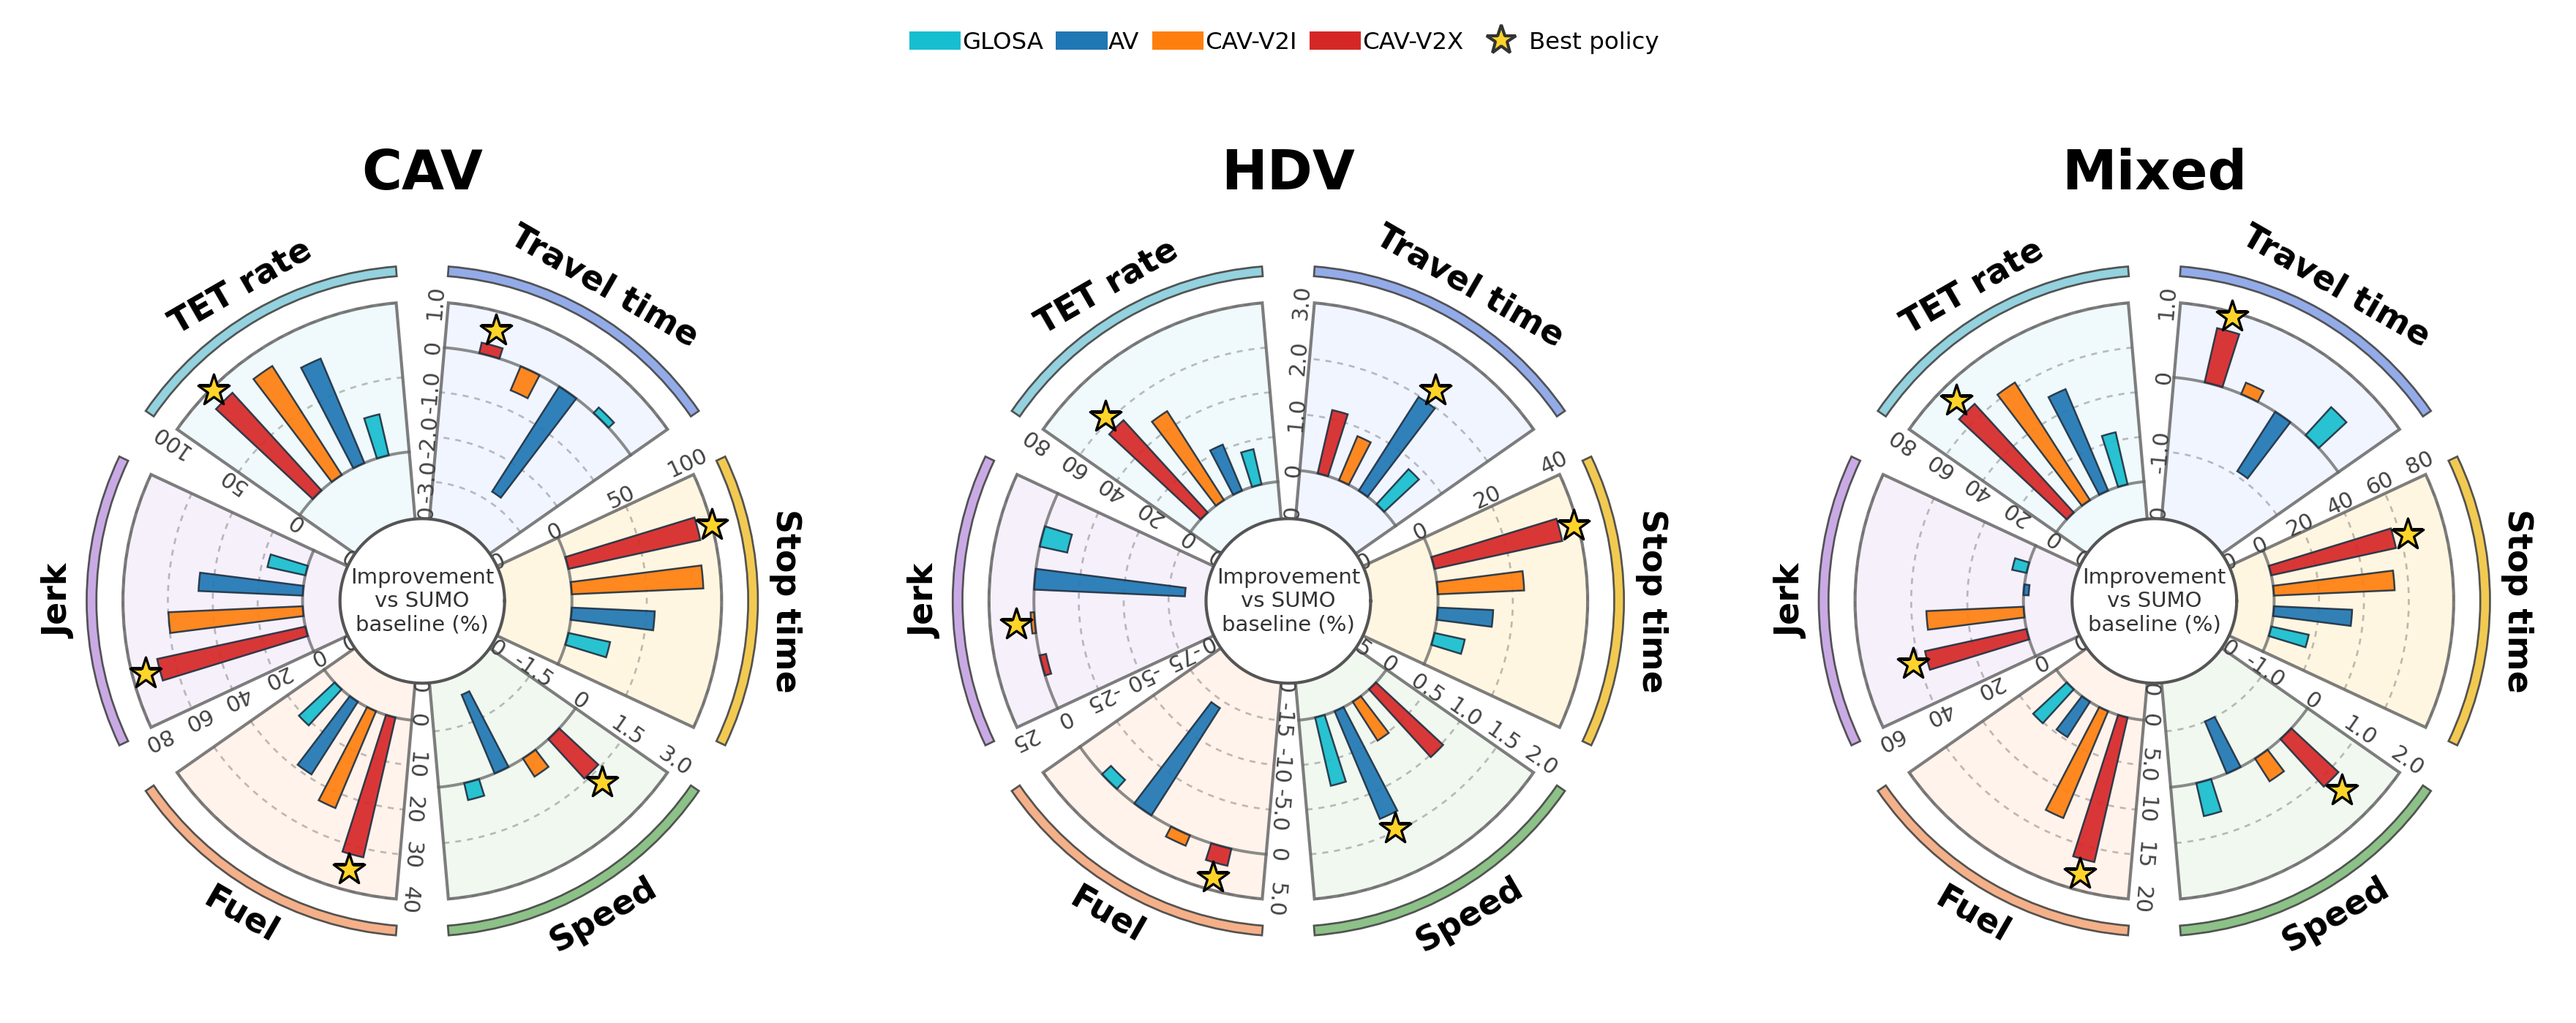
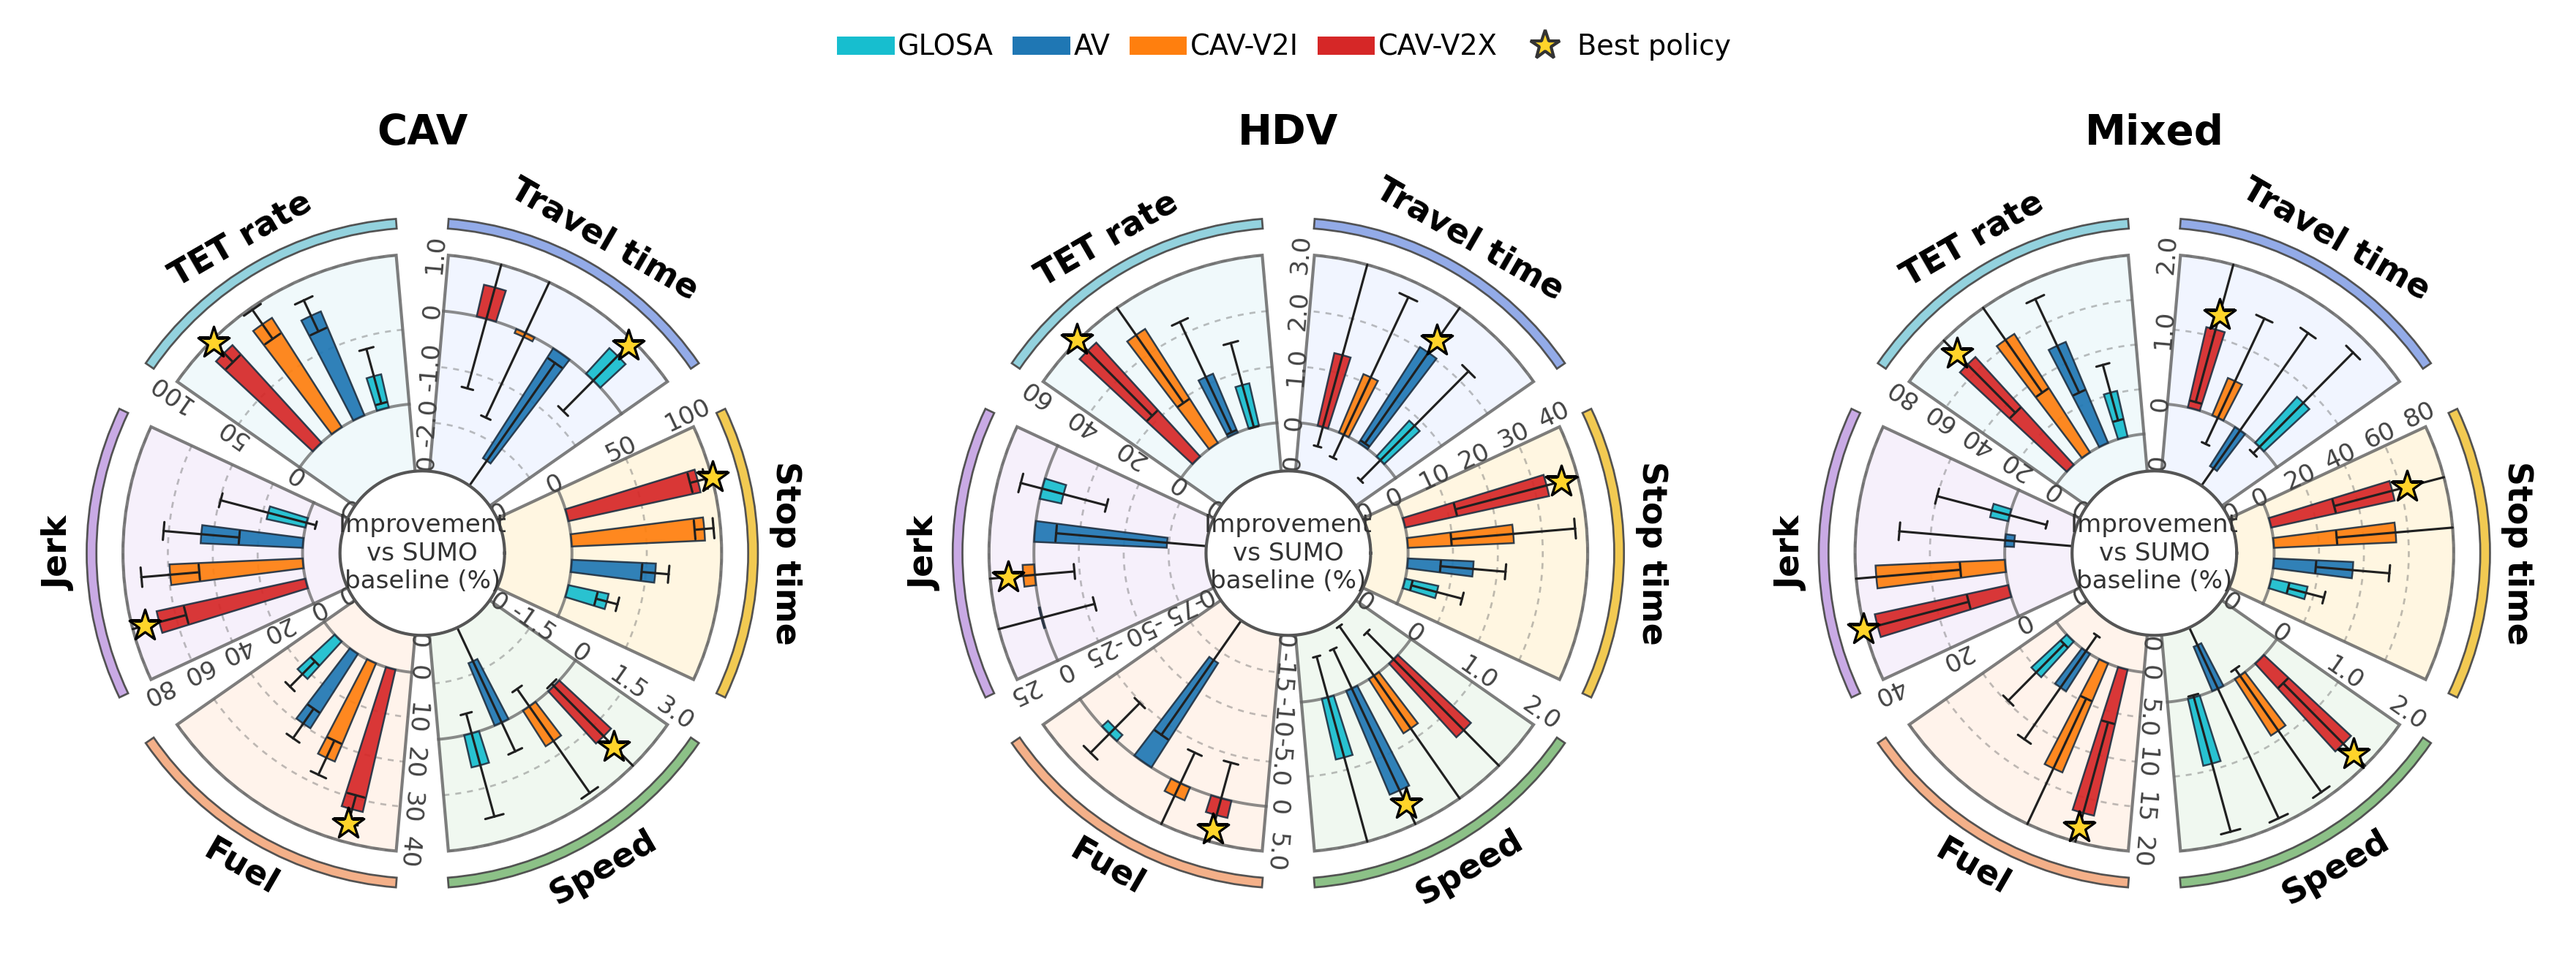
Update figures with latest evaluation results

diff --git a/README.md b/README.md
@@ -2,7 +2,7 @@
 
 This repository contains the reproducible code for SUMO-based connected and automated vehicle (CAV) eco-driving experiments in mixed traffic. It includes the reinforcement-learning agents, SUMO environments, training and evaluation entry points, and scenario configuration files.
 
-The repository is intentionally code-focused and does not include manuscript source files, raw evaluation outputs, FCD traces, or intermediate checkpoints. It does include the final checkpoints and episode-level training CSV files used for the paper experiments, together with a small set of representative figures.
+The repository is intentionally code-focused and does not include manuscript source files, raw evaluation outputs, FCD traces, or intermediate checkpoints. It includes the final checkpoints and episode-level training CSV files used for the paper experiments, together with representative result figures.
 
 ## Contents
 
@@ -33,7 +33,13 @@ The main comparison considers three learned control settings:
 - `CAV-V2I`: local perception plus signal timing information.
 - `CAV-V2X`: local perception, signal timing, and neighboring-CAV communication.
 
-Across 50 matched evaluation scenarios, the `CAV-V2X` policy gives the most balanced improvement among the learned policies. Averaged over the tested CAV penetration rates, its mixed-traffic performance improves relative to the SUMO baseline by `0.74%` in travel time, `56.83%` in stop time, `1.15%` in speed, `16.52%` in fuel consumption, `37.01%` in jerk, and `65.50%` in TET rate.
+Across five penetration rates and 100 matched evaluation runs per policy, the `CAV-V2X` policy gives the most balanced improvement among the learned policies. Averaged after run-level matching with the SUMO baseline, its mixed-traffic performance improves by `1.10%` in travel time, `56.21%` in stop time, `1.59%` in speed, `16.69%` in fuel consumption, `36.50%` in jerk, and `64.99%` in TET rate.
+
+Algorithm training comparison:
+
+![Algorithm training reward](figures/algorithm_training_reward.png)
+
+![Algorithm training metrics](figures/algorithm_training_metrics.png)
 
 Training reward comparison:
 
@@ -55,9 +61,21 @@ Penetration sensitivity:
 
 ![Penetration sensitivity](figures/penetration_sensitivity.png)
 
+Hybrid-action branch ablation:
+
+![Hybrid-action ablation](figures/hybrid_action_ablation.png)
+
+Available V2V-context sensitivity:
+
+![Communication capacity sensitivity](figures/communication_capacity_heatmap.png)
+
 The real-parameter Sycamore/Central scenario is used to test adaptation from a pretrained model. Pretraining improves early convergence and stabilizes several performance metrics compared with training from scratch.
 
 ![Sycamore generalization training](figures/sycamore_generalization_training.png)
+
+Sycamore evaluation savings:
+
+![Sycamore evaluation savings](figures/sycamore_evaluation_savings.png)
 
 Pretrained-policy trajectories under different penetration rates:
 
@@ -161,7 +179,7 @@ The released experiments are:
 | `sycamore_scratch_s1` | Sycamore scenario trained from scratch |
 | `sycamore_pretrained_s1` | Sycamore scenario initialized from the pretrained CAV-V2X policy |
 
-Experiments that alter only execution-time information or action availability reuse `cav_control/models/final.pt`. This includes the longitudinal/lane-changing branch ablation, penetration-rate evaluation, and the `K=0,1,2,4,6,8` V2V-token sensitivity study. See [`artifacts/README.md`](artifacts/README.md) for file hashes and experiment mapping.
+The penetration-rate and V2V-context sensitivity evaluations reuse `cav_control/models/final.pt`. The separately trained longitudinal-only and lane-changing-only checkpoints used for the action-branch ablation were unavailable in the local release source and are therefore not included; only their result figure is released. See [`artifacts/README.md`](artifacts/README.md) for file hashes, experiment mapping, and this limitation.
 
 ## Evaluation
 
@@ -245,7 +263,7 @@ python evaluate.py checkpoint=<path/to/final.pt> \
 
 ## Large Files
 
-Only the eight curated `final.pt` checkpoints and their `train.csv` files are tracked. Intermediate checkpoints, runtime `logs/`, raw evaluation results, FCD XML files, videos, and temporary figures remain ignored. The complete curated artifact set is approximately 16 MB and does not require Git LFS.
+Eight curated `final.pt` checkpoints, their `train.csv` files, and representative paper result figures are tracked. Intermediate checkpoints, runtime `logs/`, raw evaluation results, FCD XML files, videos, and temporary figures remain ignored. The tracked model files are small enough that Git LFS is not required.
 
 ## License
 

diff --git a/artifacts/README.md b/artifacts/README.md
@@ -15,7 +15,7 @@ This directory contains the final policy checkpoints and episode-level training 
 | `sycamore_scratch_s1` | Hybrid SAC trained from scratch | Data-informed scenario transfer comparison |
 | `sycamore_pretrained_s1` | Hybrid SAC initialized from `cav_control` | Data-informed scenario transfer comparison |
 
-The action-branch ablation and the V2V-token sensitivity experiment do not have separate trained checkpoints. They evaluate the unchanged `cav_control/models/final.pt` policy while restricting available actions or masking context tokens at execution time.
+The penetration-rate and V2V-context sensitivity experiments evaluate the unchanged `cav_control/models/final.pt` policy while changing the evaluation scenario or masking context tokens. The separately trained longitudinal-only and lane-changing-only checkpoints used for the action-branch ablation were not available in the local release source. Those two policies cannot currently be re-evaluated bit-for-bit from the released checkpoints.
 
 ## File Layout
 
@@ -47,4 +47,3 @@ Checkpoints are PyTorch dictionaries with a top-level `model` state dictionary. 
[3 lines of base64/hex data omitted]
-
